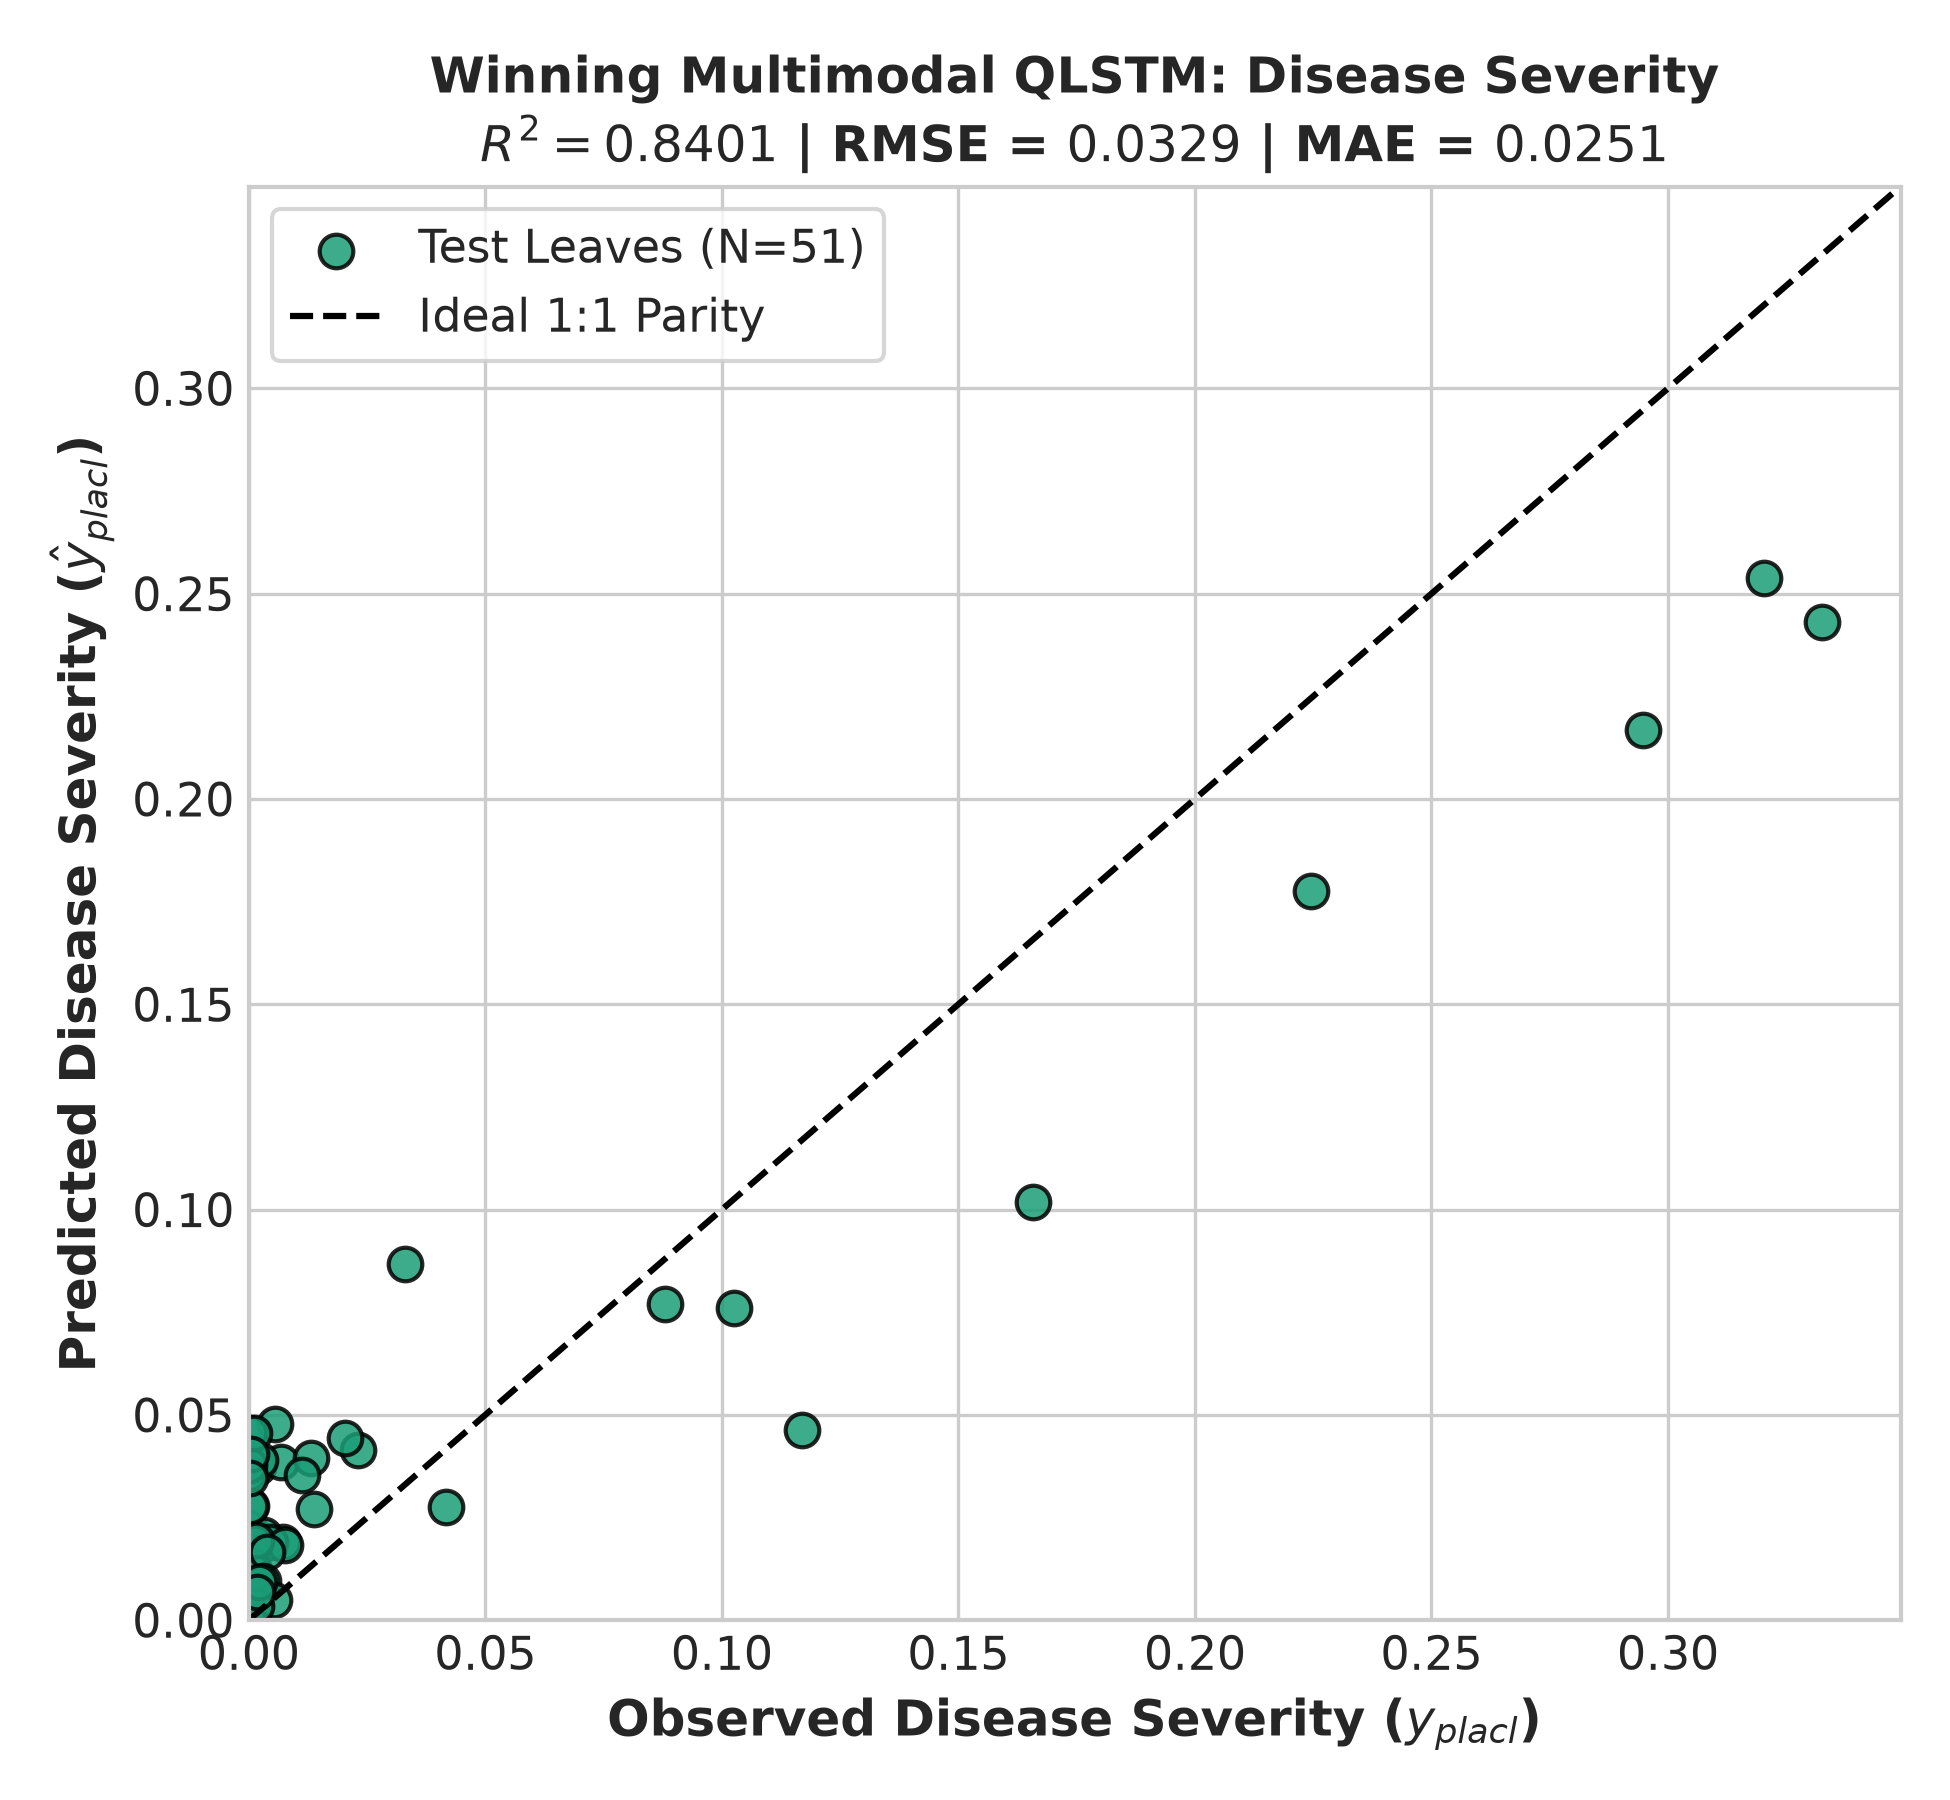
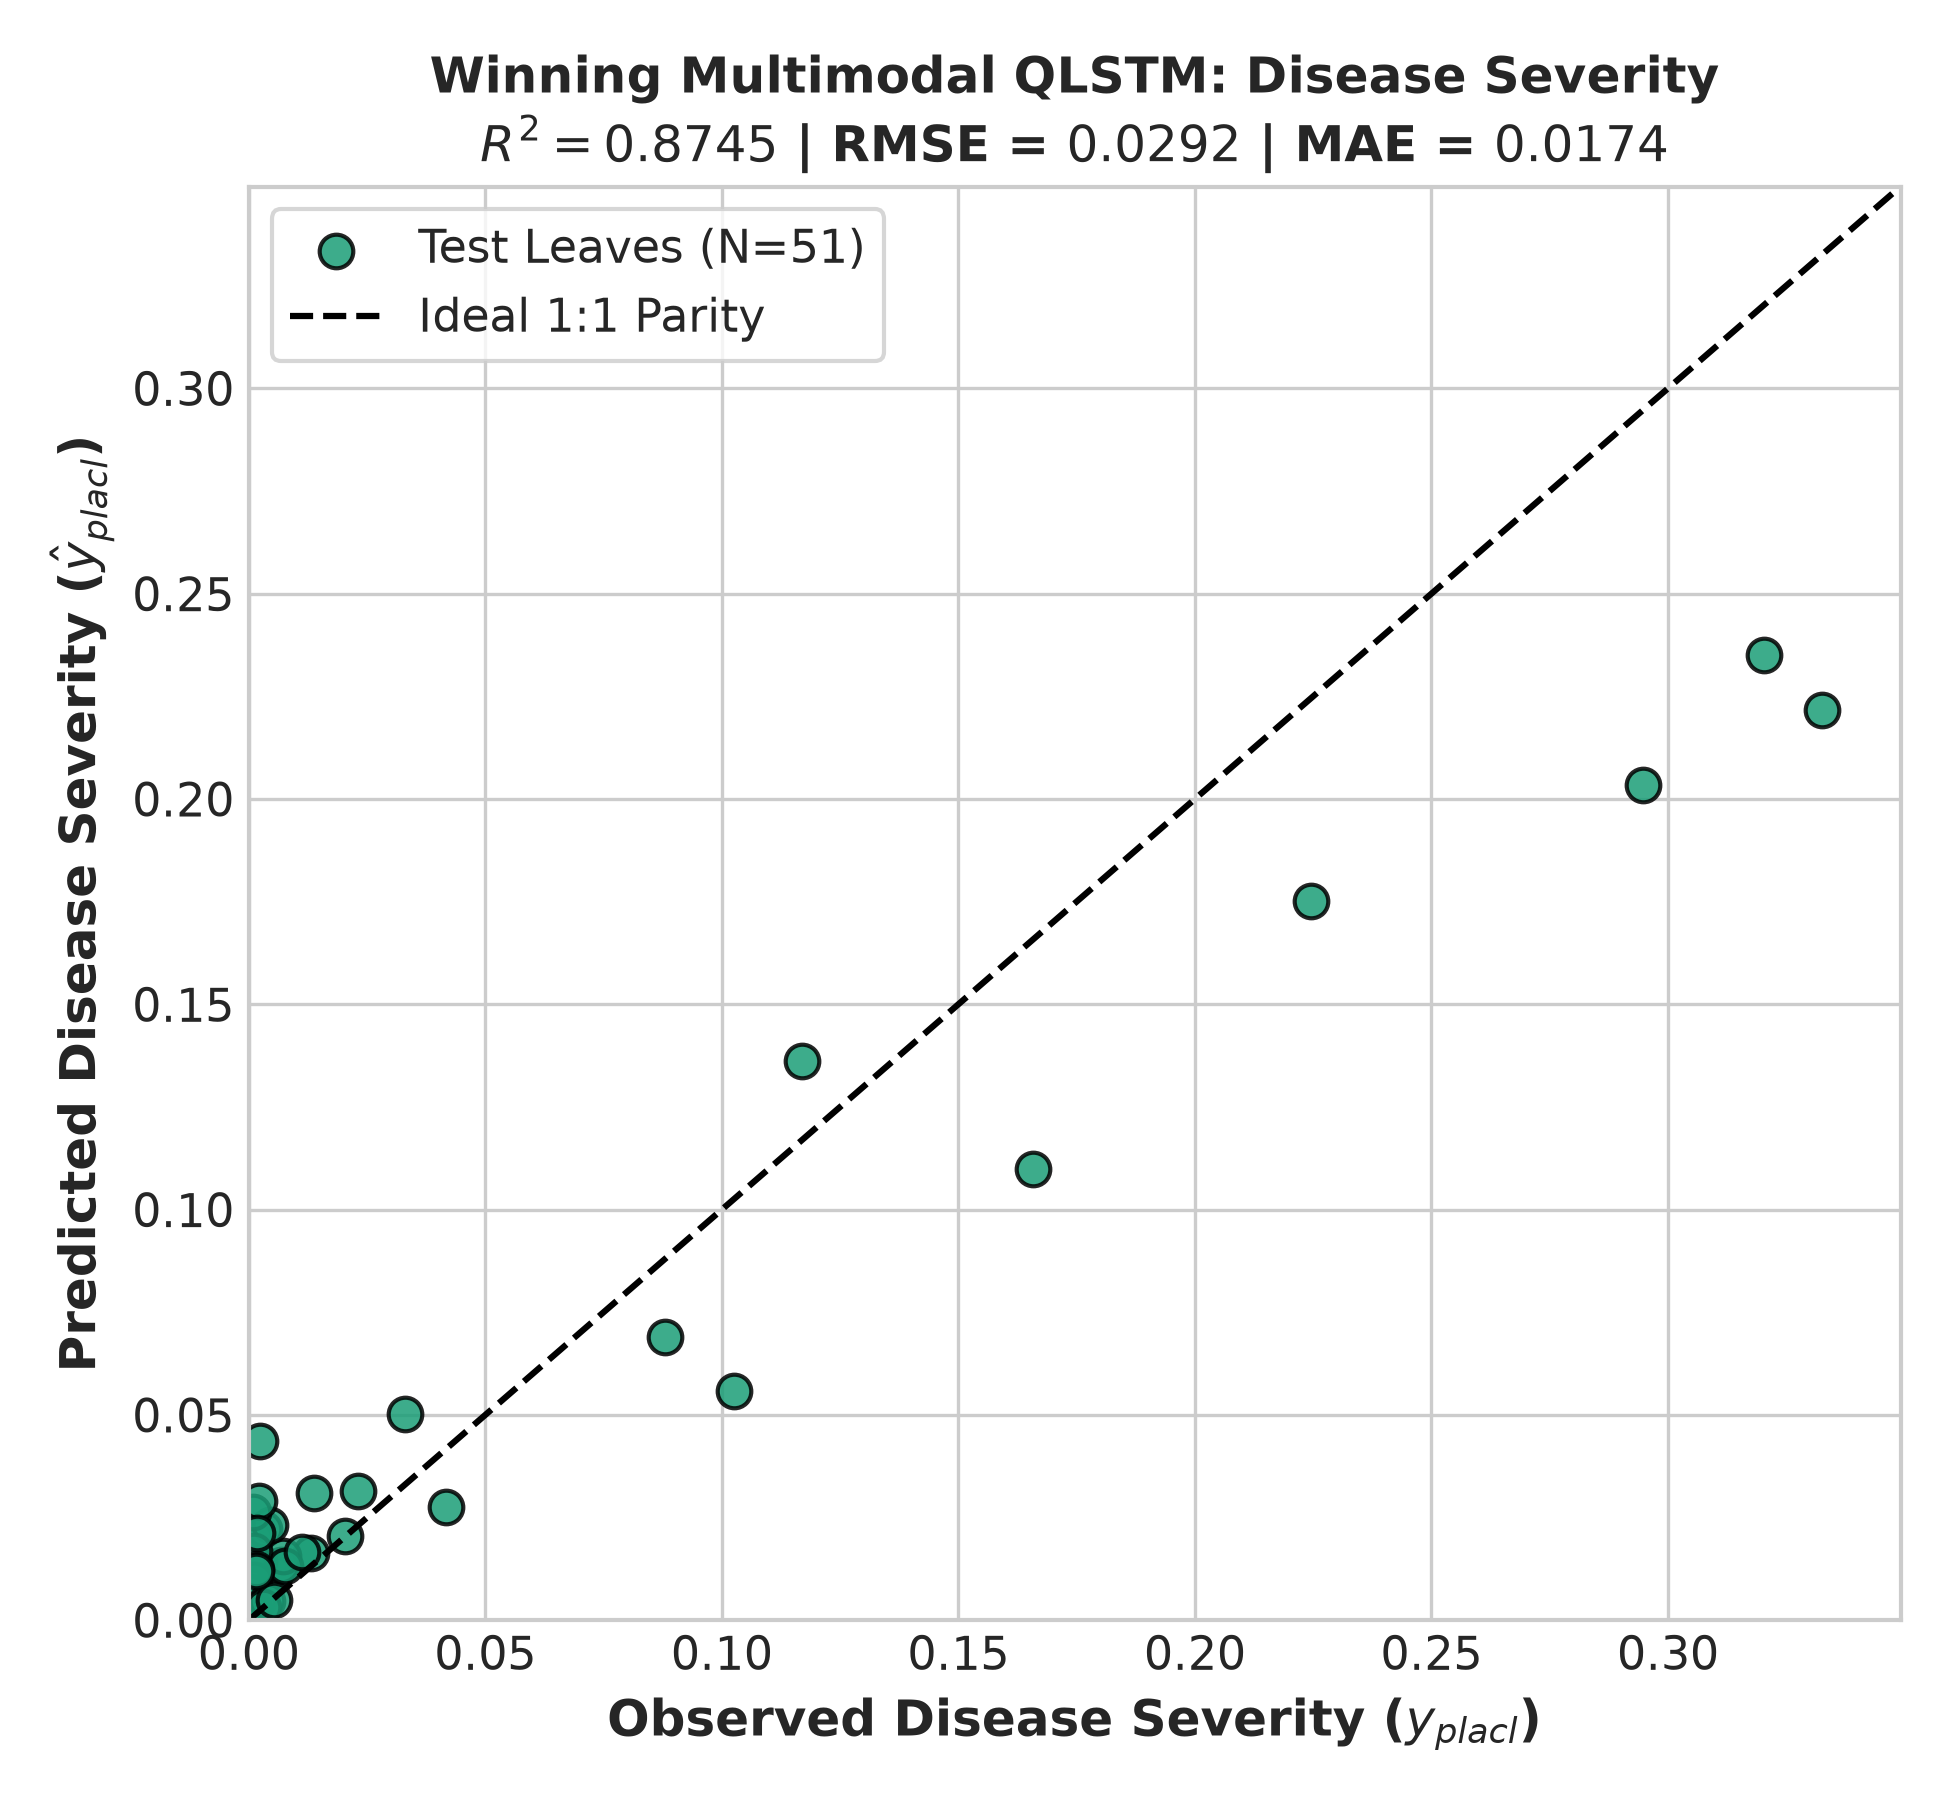
Update all publication plots and comparison metrics with latest Multimodal QLSTM results (R2=0.8745, Lesion R2=0.6752)

diff --git a/src/evaluation/generate_final_audit_and_plots.py b/src/evaluation/generate_final_audit_and_plots.py
@@ -21,9 +21,20 @@ y_disease = data["y_placl"]
 y_lesion = data["y_lesion_area"]
 leaf_ids = data["leaf_ids"]
 
-pred_df = pd.read_csv("outputs/qlstm_exp3_predictions.csv")
-with open("outputs/qlstm_exp3_test_metrics.json") as f:
-    saved_test_metrics = json.load(f)
+if os.path.exists("outputs/multimodal_predictions.csv"):
+    pred_df = pd.read_csv("outputs/multimodal_predictions.csv")
+    if "actual_disease" not in pred_df.columns and "true_disease" in pred_df.columns:
+        pred_df["actual_disease"] = pred_df["true_disease"]
+    if "actual_lesion" not in pred_df.columns and "true_lesion_area" in pred_df.columns:
+        pred_df["actual_lesion"] = pred_df["true_lesion_area"]
+    if "predicted_lesion" not in pred_df.columns and "predicted_lesion_area" in pred_df.columns:
+        pred_df["predicted_lesion"] = pred_df["predicted_lesion_area"]
+    with open("outputs/multimodal_test_metrics.json") as f:
+        saved_test_metrics = json.load(f)
+else:
+    pred_df = pd.read_csv("outputs/qlstm_exp3_predictions.csv")
+    with open("outputs/qlstm_exp3_test_metrics.json") as f:
+        saved_test_metrics = json.load(f)
 
 # Recompute metrics from predictions
 d_mse = float(mean_squared_error(pred_df["actual_disease"], pred_df["predicted_disease"]))
